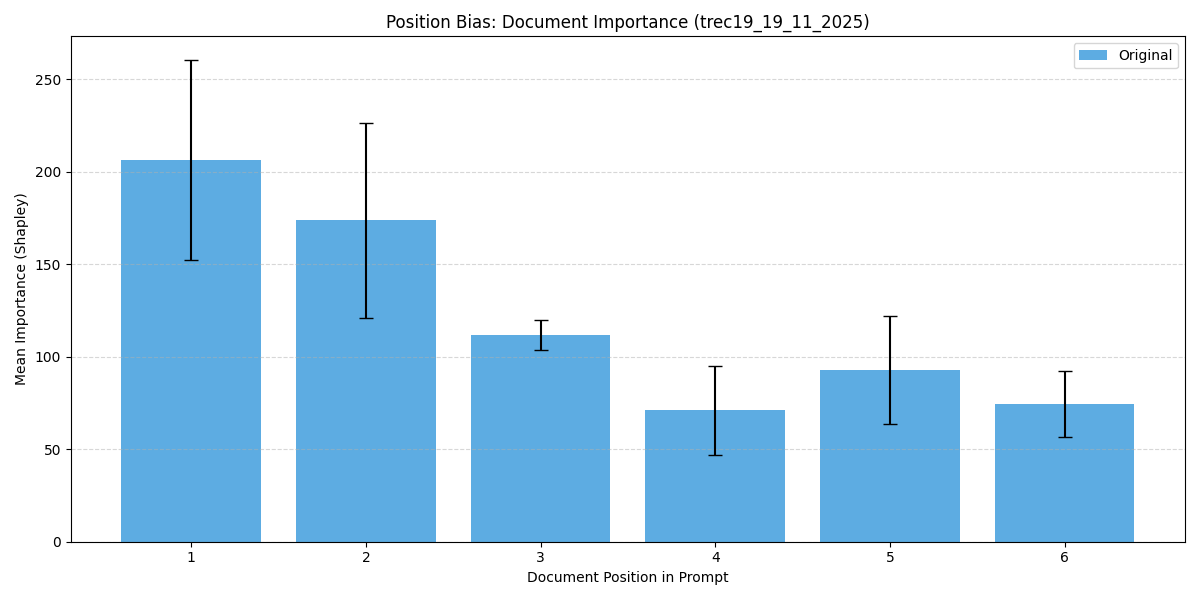
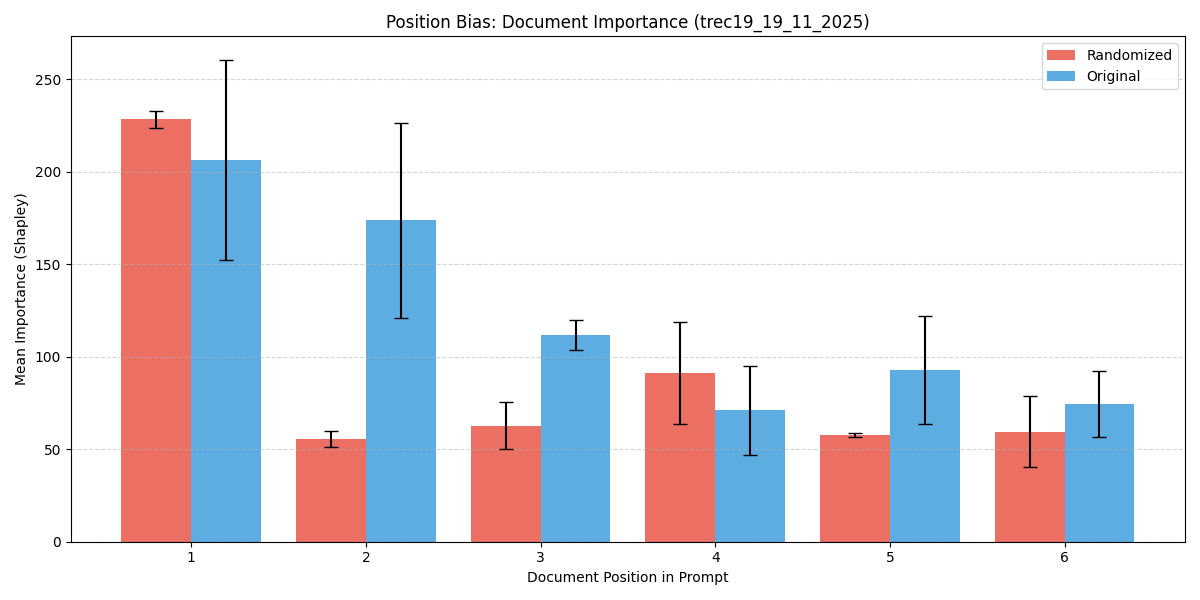
update

diff --git a/comparative_analysis_report/report.html b/comparative_analysis_report/report.html
@@ -24,7 +24,7 @@ h3 { color: #7f8c8d; }
 <body>
     <div class="container">
         <h1>RAG Pipeline Comparative Analysis</h1>
-        <p>Generated on 2025-11-26 12:36</p>
+        <p>Generated on 2025-11-26 13:10</p>
         <div class='experiment-block'><h2>Global Syntax & Logic Analysis</h2>
 <h3>Top POS Bigrams (Weighted)</h3>
 <table class='stats-table'><thead><tr><th>Type</th><th>Pattern</th><th>Mean Norm. Weight</th><th>Count</th></tr></thead><tbody>
@@ -41,10 +41,11 @@ h3 { color: #7f8c8d; }
 </tbody></table>
 <h3>Pattern Weight Summary</h3>
 <table class='stats-table'><thead><tr><th>Type</th><th>Pattern</th><th>Mean Norm. Weight</th><th>Count</th></tr></thead><tbody>
-<tr><td>generation</td><td>ADJ+NOUN</td><td>2.3216</td><td>8</td></tr>
-<tr><td>generation</td><td>ADP+NOUN</td><td>1.8592</td><td>5</td></tr>
-<tr><td>generation</td><td>DET+NOUN</td><td>1.4082</td><td>7</td></tr>
-<tr><td>retrieval</td><td>ADJ+NOUN</td><td>0.1929</td><td>6</td></tr>
+<tr><td>generation</td><td>ADJ+NOUN</td><td>1.6230</td><td>558</td></tr>
+<tr><td>generation</td><td>ADP+NOUN</td><td>1.4686</td><td>434</td></tr>
+<tr><td>generation</td><td>DET+NOUN</td><td>1.3732</td><td>458</td></tr>
+<tr><td>generation</td><td>VERB+NOUN</td><td>1.4836</td><td>188</td></tr>
+<tr><td>retrieval</td><td>ADJ+NOUN</td><td>0.6700</td><td>75</td></tr>
 </tbody></table>
 </div>
     
@@ -92,80 +93,48 @@ h3 { color: #7f8c8d; }
                     <a href='trec19_19_11_2025/original/Llama-3.1-8B-Instruct_qid_31_2/' target='_blank'>Folder</a>
                 </td>
             </tr>
-</tbody></table></div>
-
-        <div class="experiment-block">
-            <h2>Experiment: efra_chunks_17_11_2025</h2>
-            <div class="plot-container">
-
-                <div class="plot-card">
-                    <img src="efra_chunks_17_11_2025/compare_position.png" alt="position_bias">
-                    <div class="description"><b>Position Bias Analysis:</b> Comparison of document importance based on its position in the prompt. <br>If 'Original' and 'Randomized' both show a downward trend, the model has a <b>Primacy Bias</b> (favors the first thing it reads). <br>If 'Randomized' is flat or different, the model might be attending to content rather than position.</div>
-                </div>
-
-                <div class="plot-card">
-                    <img src="efra_chunks_17_11_2025/top_tokens.png" alt="top_tokens">
-                    <div class="description"><b>Top Influential Tokens:</b> The specific words (excluding stop words) that accumulated the most importance across all queries. These are the 'drivers' of your model's outputs.</div>
-                </div>
-
-                <div class="plot-card">
-                    <img src="efra_chunks_17_11_2025/pos_dist.png" alt="pos_distribution">
-                    <div class="description"><b>Part-of-Speech Impact:</b> Which grammatical roles drive the model's generation? High importance on Nouns/Verbs indicates content focus; high importance on Determiners/Prepositions might indicate noise.</div>
-                </div>
-</div>
-            <h3>Detailed Logs (efra_chunks_17_11_2025)</h3>
-            <table class='stats-table'>
-                <thead><tr><th>Condition</th><th>File</th><th>Query Text</th><th>Type</th><th>Links</th></tr></thead>
-                <tbody>
             <tr>
-                <td>original</td>
-                <td>Llama-3.1-8B-Instruct_qid_0</td>
-                <td style='max-width:300px; overflow:hidden; text-overflow:ellipsis; white-space:nowrap;' title='As a consumer interested in food safety, can you elaborate on the essential control measures that food establishments should implement to manage foodborne illness risk factors, and how regulatory authorities assess these measures during inspections?'>As a consumer interested in food safety, can you elaborate on the essential control measures that food establishments should implement to manage foodborne illness risk factors, and how regulatory authorities assess these measures during inspections?</td>
+                <td>randomized</td>
+                <td>Llama-3.1-8B-Instruct_qid_31_1</td>
+                <td style='max-width:300px; overflow:hidden; text-overflow:ellipsis; white-space:nowrap;' title='What is throat cancer?'>What is throat cancer?</td>
                 <td><span class='badge badge-gen'>generation</span></td>
                 <td>
-                    <a href='efra_chunks_17_11_2025/original/Llama-3.1-8B-Instruct_qid_0/index.html' target='_blank'>Detailed View</a> | 
-                    <a href='efra_chunks_17_11_2025/original/Llama-3.1-8B-Instruct_qid_0/' target='_blank'>Folder</a>
+                    <a href='trec19_19_11_2025/randomized/Llama-3.1-8B-Instruct_qid_31_1/index.html' target='_blank'>Detailed View</a> | 
+                    <a href='trec19_19_11_2025/randomized/Llama-3.1-8B-Instruct_qid_31_1/' target='_blank'>Folder</a>
                 </td>
             </tr>
             <tr>
-                <td>original</td>
-                <td>Llama-3.1-8B-Instruct_qid_1</td>
-                <td style='max-width:300px; overflow:hidden; text-overflow:ellipsis; white-space:nowrap;' title='As a consumer interested in food safety, could you elaborate on the guidelines and good manufacturing practices (GMP) that are in place for fresh meat, poultry, and game, as well as for frozen fish products, and how these practices ensure the safety and quality of these food items?'>As a consumer interested in food safety, could you elaborate on the guidelines and good manufacturing practices (GMP) that are in place for fresh meat, poultry, and game, as well as for frozen fish products, and how these practices ensure the safety and quality of these food items?</td>
+                <td>randomized</td>
+                <td>Llama-3.1-8B-Instruct_qid_31_2</td>
+                <td style='max-width:300px; overflow:hidden; text-overflow:ellipsis; white-space:nowrap;' title='Is throat cancer treatable?'>Is throat cancer treatable?</td>
                 <td><span class='badge badge-gen'>generation</span></td>
                 <td>
-                    <a href='efra_chunks_17_11_2025/original/Llama-3.1-8B-Instruct_qid_1/index.html' target='_blank'>Detailed View</a> | 
-                    <a href='efra_chunks_17_11_2025/original/Llama-3.1-8B-Instruct_qid_1/' target='_blank'>Folder</a>
+                    <a href='trec19_19_11_2025/randomized/Llama-3.1-8B-Instruct_qid_31_2/index.html' target='_blank'>Detailed View</a> | 
+                    <a href='trec19_19_11_2025/randomized/Llama-3.1-8B-Instruct_qid_31_2/' target='_blank'>Folder</a>
                 </td>
             </tr>
-</tbody></table></div>
-
-        <div class="experiment-block">
-            <h2>Experiment: trec19</h2>
-            <div class="plot-container">
+</tbody></table>
+<h3>Comparative Analysis: Original vs Randomized</h3>
+<p>Side-by-side comparison of generated responses and document importance.</p>
+<table class='stats-table'><thead><tr><th>Query ID</th><th>Query</th><th>Original</th><th>Randomized</th><th>Diff?</th><th>Orig Doc Imp</th><th>Rand Doc Imp</th></tr></thead><tbody>
+<tr>
+<td>Llama-3.1-8B-Instruct_qid_31_1</td>
+<td style='max-width:300px; overflow:hidden; text-overflow:ellipsis; white-space:nowrap;' title='What is throat cancer?'>What is throat cancer?</td>
+<td><a href='trec19_19_11_2025/original/Llama-3.1-8B-Instruct_qid_31_1/index.html'>Original Report</a></td>
+<td><a href='trec19_19_11_2025/randomized/Llama-3.1-8B-Instruct_qid_31_1/index.html'>Randomized Report</a></td>
+<td><a href='trec19_19_11_2025/original/Llama-3.1-8B-Instruct_qid_31_1/index.html#doc_imp' target='_blank'>Compare Docs</a></td>
+<td><a href='trec19_19_11_2025/original/Llama-3.1-8B-Instruct_qid_31_1/doc_imp.png' target='_blank'><img src='trec19_19_11_2025/original/Llama-3.1-8B-Instruct_qid_31_1/doc_imp.png' width='200'></a></td>
+<td><a href='trec19_19_11_2025/randomized/Llama-3.1-8B-Instruct_qid_31_1/doc_imp.png' target='_blank'><img src='trec19_19_11_2025/randomized/Llama-3.1-8B-Instruct_qid_31_1/doc_imp.png' width='200'></a></td>
+</tr>
+<tr>
+<td>Llama-3.1-8B-Instruct_qid_31_2</td>
+<td style='max-width:300px; overflow:hidden; text-overflow:ellipsis; white-space:nowrap;' title='Is throat cancer treatable?'>Is throat cancer treatable?</td>
+<td><a href='trec19_19_11_2025/original/Llama-3.1-8B-Instruct_qid_31_2/index.html'>Original Report</a></td>
+<td><a href='trec19_19_11_2025/randomized/Llama-3.1-8B-Instruct_qid_31_2/index.html'>Randomized Report</a></td>
+<td><a href='trec19_19_11_2025/original/Llama-3.1-8B-Instruct_qid_31_2/index.html#doc_imp' target='_blank'>Compare Docs</a></td>
+<td><a href='trec19_19_11_2025/original/Llama-3.1-8B-Instruct_qid_31_2/doc_imp.png' target='_blank'><img src='trec19_19_11_2025/original/Llama-3.1-8B-Instruct_qid_31_2/doc_imp.png' width='200'></a></td>
+<td><a href='trec19_19_11_2025/randomized/Llama-3.1-8B-Instruct_qid_31_2/doc_imp.png' target='_blank'><img src='trec19_19_11_2025/randomized/Llama-3.1-8B-Instruct_qid_31_2/doc_imp.png' width='200'></a></td>
+</tr>
+</tbody></table>
 </div>
-            <h3>Detailed Logs (trec19)</h3>
-            <table class='stats-table'>
-                <thead><tr><th>Condition</th><th>File</th><th>Query Text</th><th>Type</th><th>Links</th></tr></thead>
-                <tbody>
-            <tr>
-                <td>retrieval</td>
-                <td>query_31_1</td>
-                <td style='max-width:300px; overflow:hidden; text-overflow:ellipsis; white-space:nowrap;' title=' ▁que ry : ▁What ▁is ▁ thro at ▁cancer ? '> ▁que ry : ▁What ▁is ▁ thro at ▁cancer ? </td>
-                <td><span class='badge badge-ret'>retrieval</span></td>
-                <td>
-                    <a href='trec19/retrieval/query_31_1/index.html' target='_blank'>Detailed View</a> | 
-                    <a href='trec19/retrieval/query_31_1/' target='_blank'>Folder</a>
-                </td>
-            </tr>
-            <tr>
-                <td>retrieval</td>
-                <td>query_31_2</td>
-                <td style='max-width:300px; overflow:hidden; text-overflow:ellipsis; white-space:nowrap;' title=' ▁que ry : ▁Is ▁ thro at ▁cancer ▁treat able ? '> ▁que ry : ▁Is ▁ thro at ▁cancer ▁treat able ? </td>
-                <td><span class='badge badge-ret'>retrieval</span></td>
-                <td>
-                    <a href='trec19/retrieval/query_31_2/index.html' target='_blank'>Detailed View</a> | 
-                    <a href='trec19/retrieval/query_31_2/' target='_blank'>Folder</a>
-                </td>
-            </tr>
-</tbody></table></div>
 </div></body></html>

diff --git a/comparative_analysis_report/trec19_19_11_2025/randomized/Llama-3.1-8B-Instruct_qid_31_2/gen_stats.html b/comparative_analysis_report/trec19_19_11_2025/randomized/Llama-3.1-8B-Instruct_qid_31_2/gen_stats.html
@@ -1,7 +1,7 @@
 <!DOCTYPE html>
 <html>
 <head>
-    <title>Detail: Llama-3.1-8B-Instruct_qid_31_2</title>
+    <title>Generation Stats</title>
     <style>
 body { font-family: 'Segoe UI', Tahoma, Geneva, Verdana, sans-serif; margin: 0; padding: 0; color: #333; background-color: #f9f9f9; }
 .container { max-width: 1200px; margin: 0 auto; padding: 20px; background-color: #fff; box-shadow: 0 0 10px rgba(0,0,0,0.1); }
@@ -23,38 +23,24 @@ h3 { color: #7f8c8d; }
 </head>
 <body>
     <div class="container">
-        <a href="../../../report.html" style="display:inline-block; margin-bottom:20px; text-decoration:none; color:#3498db;" >&larr; Back to Global Report</a>
-        <h1>Analysis: Llama-3.1-8B-Instruct_qid_31_2</h1>
-        <div style="background:#f0f8ff; padding:15px; border-radius:5px; margin-bottom:20px;">
-            <strong>Query:</strong> Is throat cancer treatable?
-        </div>
-        <a href="gen_stats.html" class="badge badge-gen" style="font-size:1em; text-decoration:none; padding:10px;">View Full Generation Stats</a>
-        <div class="experiment-block">
-            <div class="plot-container">
-
-            <div class="plot-card">
-                <h3>Document Importance</h3>
-                <img src="doc_imp.png" alt="Document Importance">
-            </div>
-
-            <div class="plot-card">
-                <h3>POS Importance</h3>
-                <img src="pos_imp.png" alt="POS Importance">
-            </div>
-
-            <div class="plot-card">
-                <h3>Query Heatmap</h3>
-                <img src="qry_map.png" alt="Query Heatmap">
-            </div>
-
-            <div class="plot-card">
-                <h3>Context Heatmap</h3>
-                <img src="ctx_map.png" alt="Context Heatmap">
-            </div>
-
-            </div>
-        </div>
+        <h1>Generation Statistics</h1>
+        <p><b>Query:</b> Is throat cancer treatable?</p>
+        <p><b>Generated Text:</b> <|start_header_id|> assistant <|end_header_id|> ĊĊ Based on the provided documents , the answer to the query is that throat cancer is treat able , especially when detected early . ĊĊ According to Document  1 and Document  4 , if the cancer has not spread to parts of the body outside the head and neck , about half of patients can be cured .</p>
         
-    </div>
-</body>
-</html>
+        <div class="experiment-block">
+            <h3>Top 10 Most 'Expensive' Generated Tokens</h3>
+            <p>Tokens that required the most attribution (Context + Query).</p>
+            <table class="stats-table">
+                <thead><tr><th>Rank</th><th>Token</th><th>Total Importance</th></tr></thead>
+                <tbody>
+<tr><td>1</td><td>head</td><td>31.0209</td></tr>
+<tr><td>2</td><td>,</td><td>30.6072</td></tr>
+<tr><td>3</td><td>outside</td><td>28.9953</td></tr>
+<tr><td>4</td><td><|start_header_id|></td><td>27.3180</td></tr>
+<tr><td>5</td><td>parts</td><td>24.1450</td></tr>
+<tr><td>6</td><td>half</td><td>23.1736</td></tr>
+<tr><td>7</td><td>of</td><td>20.9104</td></tr>
+<tr><td>8</td><td>about</td><td>20.2607</td></tr>
+<tr><td>9</td><td>4</td><td>20.0843</td></tr>
+<tr><td>10</td><td>body</td><td>20.0354</td></tr>
+</tbody></table></div></div></body></html>

diff --git a/comparative_analysis_report/trec19_19_11_2025/randomized/Llama-3.1-8B-Instruct_qid_31_1/gen_stats.html b/comparative_analysis_report/trec19_19_11_2025/randomized/Llama-3.1-8B-Instruct_qid_31_1/gen_stats.html
@@ -1,7 +1,7 @@
 <!DOCTYPE html>
 <html>
 <head>
-    <title>Detail: Llama-3.1-8B-Instruct_qid_31_2</title>
+    <title>Generation Stats</title>
     <style>
 body { font-family: 'Segoe UI', Tahoma, Geneva, Verdana, sans-serif; margin: 0; padding: 0; color: #333; background-color: #f9f9f9; }
 .container { max-width: 1200px; margin: 0 auto; padding: 20px; background-color: #fff; box-shadow: 0 0 10px rgba(0,0,0,0.1); }
@@ -23,38 +23,24 @@ h3 { color: #7f8c8d; }
 </head>
 <body>
     <div class="container">
-        <a href="../../../report.html" style="display:inline-block; margin-bottom:20px; text-decoration:none; color:#3498db;" >&larr; Back to Global Report</a>
-        <h1>Analysis: Llama-3.1-8B-Instruct_qid_31_2</h1>
-        <div style="background:#f0f8ff; padding:15px; border-radius:5px; margin-bottom:20px;">
-            <strong>Query:</strong> Is throat cancer treatable?
-        </div>
-        <a href="gen_stats.html" class="badge badge-gen" style="font-size:1em; text-decoration:none; padding:10px;">View Full Generation Stats</a>
-        <div class="experiment-block">
-            <div class="plot-container">
-
-            <div class="plot-card">
-                <h3>Document Importance</h3>
-                <img src="doc_imp.png" alt="Document Importance">
-            </div>
-
-            <div class="plot-card">
-                <h3>POS Importance</h3>
-                <img src="pos_imp.png" alt="POS Importance">
-            </div>
-
-            <div class="plot-card">
-                <h3>Query Heatmap</h3>
-                <img src="qry_map.png" alt="Query Heatmap">
-            </div>
-
-            <div class="plot-card">
-                <h3>Context Heatmap</h3>
-                <img src="ctx_map.png" alt="Context Heatmap">
-            </div>
-
-            </div>
-        </div>
+        <h1>Generation Statistics</h1>
+        <p><b>Query:</b> What is throat cancer?</p>
+        <p><b>Generated Text:</b> <|start_header_id|> assistant <|end_header_id|> ĊĊ Based on the retrieved documents , throat cancer refers to cancer ous tumors that develop in the throat , specifically in the ph ary nx ( the upper , middle , or lower part of the throat ) or the l ary nx ( the voice box ). It is a type of head and neck cancer that can be</p>
         
-    </div>
-</body>
-</html>
+        <div class="experiment-block">
+            <h3>Top 10 Most 'Expensive' Generated Tokens</h3>
+            <p>Tokens that required the most attribution (Context + Query).</p>
+            <table class="stats-table">
+                <thead><tr><th>Rank</th><th>Token</th><th>Total Importance</th></tr></thead>
+                <tbody>
+<tr><td>1</td><td><|start_header_id|></td><td>39.9523</td></tr>
+<tr><td>2</td><td>head</td><td>35.4337</td></tr>
+<tr><td>3</td><td>assistant</td><td>34.2323</td></tr>
+<tr><td>4</td><td>and</td><td>18.9493</td></tr>
+<tr><td>5</td><td>ary</td><td>17.4356</td></tr>
+<tr><td>6</td><td>cancer</td><td>16.8009</td></tr>
+<tr><td>7</td><td>throat</td><td>14.9075</td></tr>
+<tr><td>8</td><td>tumors</td><td>14.8917</td></tr>
+<tr><td>9</td><td>ph</td><td>14.8142</td></tr>
+<tr><td>10</td><td>type</td><td>14.7662</td></tr>
+</tbody></table></div></div></body></html>

diff --git a/comparative_analysis_report/trec19_19_11_2025/original/Llama-3.1-8B-Instruct_qid_31_2/gen_stats.html b/comparative_analysis_report/trec19_19_11_2025/original/Llama-3.1-8B-Instruct_qid_31_2/gen_stats.html
@@ -33,8 +33,14 @@ h3 { color: #7f8c8d; }
             <table class="stats-table">
                 <thead><tr><th>Rank</th><th>Token</th><th>Total Importance</th></tr></thead>
                 <tbody>
-<tr><td>1</td><td>ĊĊ</td><td>88.0452</td></tr>
-<tr><td>2</td><td>assistant</td><td>47.5695</td></tr>
-<tr><td>3</td><td><|end_header_id|></td><td>34.5246</td></tr>
-<tr><td>4</td><td><|start_header_id|></td><td>33.6165</td></tr>
+<tr><td>1</td><td>head</td><td>35.1939</td></tr>
+<tr><td>2</td><td><|start_header_id|></td><td>30.1654</td></tr>
+<tr><td>3</td><td>and</td><td>20.2501</td></tr>
+<tr><td>4</td><td>neck</td><td>18.3733</td></tr>
+<tr><td>5</td><td>once</td><td>17.5920</td></tr>
+<tr><td>6</td><td>the</td><td>17.3245</td></tr>
+<tr><td>7</td><td>assistant</td><td>16.9792</td></tr>
+<tr><td>8</td><td>high</td><td>16.2603</td></tr>
+<tr><td>9</td><td>a</td><td>16.1506</td></tr>
+<tr><td>10</td><td>,</td><td>15.3920</td></tr>
 </tbody></table></div></div></body></html>

diff --git a/comparative_analysis_report/trec19_19_11_2025/original/Llama-3.1-8B-Instruct_qid_31_1/gen_stats.html b/comparative_analysis_report/trec19_19_11_2025/original/Llama-3.1-8B-Instruct_qid_31_1/gen_stats.html
@@ -33,8 +33,14 @@ h3 { color: #7f8c8d; }
             <table class="stats-table">
                 <thead><tr><th>Rank</th><th>Token</th><th>Total Importance</th></tr></thead>
                 <tbody>
-<tr><td>1</td><td><|end_header_id|></td><td>68.7360</td></tr>
-<tr><td>2</td><td><|start_header_id|></td><td>67.9783</td></tr>
-<tr><td>3</td><td>assistant</td><td>51.1655</td></tr>
-<tr><td>4</td><td>ĊĊ</td><td>42.0216</td></tr>
+<tr><td>1</td><td><|start_header_id|></td><td>44.2391</td></tr>
+<tr><td>2</td><td>tube</td><td>36.8563</td></tr>
+<tr><td>3</td><td>to</td><td>36.5227</td></tr>
+<tr><td>4</td><td>nose</td><td>34.3466</td></tr>
+<tr><td>5</td><td>any</td><td>33.5459</td></tr>
+<tr><td>6</td><td>head</td><td>33.3070</td></tr>
+<tr><td>7</td><td></td><td>33.0619</td></tr>
+<tr><td>8</td><td>-inch</td><td>32.6442</td></tr>
+<tr><td>9</td><td>5</td><td>32.4263</td></tr>
+<tr><td>10</td><td>type</td><td>32.3160</td></tr>
 </tbody></table></div></div></body></html>

diff --git a/analysis/master_analysis.py b/analysis/master_analysis.py
@@ -143,7 +143,8 @@ def generate_local_index(file_dir, file_name, file_type, query_text="", document
         plots = [
             ("Document Importance", "doc_imp.png", "doc_importance"),
             ("POS Importance", "pos_imp.png", "pos_distribution"),
-            ("Query Heatmap", "qry_map.png", "shapley_heatmap")
+            ("Query Heatmap", "qry_map.png", "shapley_heatmap"),
+            ("Context Heatmap", "ctx_map.png", "shapley_heatmap")
         ]
         extra_links = f'<a href="gen_stats.html" class="badge badge-gen" style="font-size:1em; text-decoration:none; padding:10px;">View Full Generation Stats</a>'
     else:
@@ -239,6 +240,11 @@ def process_file_worker(args):
             plot_mean_doc_importance(s_ctx, os.path.join(local_out_dir, "doc_imp.png"))
             plot_pos_importance(gen, s_qry, s_ctx, os.path.join(local_out_dir, "pos_imp.png"))
             plot_shapley_heatmap(s_qry, gen, qry, "Query Heatmap", os.path.join(local_out_dir, "qry_map.png"))
+            
+            # Context Heatmap
+            ctx_labels = [f"Doc {i+1}" for i in range(s_ctx.shape[0])]
+            plot_shapley_heatmap(s_ctx, gen, ctx_labels, "Context (Document) Heatmap", os.path.join(local_out_dir, "ctx_map.png"))
+            
             generate_generation_stats_html(local_out_dir, gen, qry, s_ctx, s_qry)
             
             # Compute Stats for Aggregation
@@ -562,7 +568,45 @@ def generate_full_report(out_dir, experiments, exp_plots_map, file_log, global_s
             html.append("                </td>")
             html.append("            </tr>")
             
-        html.append("</tbody></table></div>")
+        html.append("</tbody></table>")
+
+        # Comparative Analysis Section (Original vs Randomized)
+        # Only relevant for generation experiments with both conditions
+        conditions = set(f['condition'] for f in exp_logs)
+        if 'original' in conditions and 'randomized' in conditions:
+             html.append("<h3>Comparative Analysis: Original vs Randomized</h3>")
+             html.append("<p>Side-by-side comparison of generated responses and document importance.</p>")
+             html.append("<table class='stats-table'><thead><tr><th>Query ID</th><th>Query</th><th>Original</th><th>Randomized</th><th>Diff?</th><th>Orig Doc Imp</th><th>Rand Doc Imp</th></tr></thead><tbody>")
+             
+             # Match logs by name (assuming name contains query ID)
+             orig_logs = {l['name']: l for l in exp_logs if l['condition'] == 'original'}
+             rand_logs = {l['name']: l for l in exp_logs if l['condition'] == 'randomized'}
+             
+             all_names = sorted(set(list(orig_logs.keys()) + list(rand_logs.keys())))
+             
+             for name in all_names:
+                 orig = orig_logs.get(name)
+                 rand = rand_logs.get(name)
+                 
+                 if orig and rand:
+                     q_text = orig.get('query', 'N/A')
+                     orig_path = os.path.relpath(orig['path'], out_dir)
+                     rand_path = os.path.relpath(rand['path'], out_dir)
+                     
+                     # Simple link for now, maybe embed images later
+                     html.append(f"<tr>")
+                     html.append(f"<td>{name}</td>")
+                     html.append(f"<td style='max-width:300px; overflow:hidden; text-overflow:ellipsis; white-space:nowrap;' title='{q_text}'>{q_text}</td>")
+                     html.append(f"<td><a href='{orig_path}/index.html'>Original Report</a></td>")
+                     html.append(f"<td><a href='{rand_path}/index.html'>Randomized Report</a></td>")
+                     html.append(f"<td><a href='{orig_path}/index.html#doc_imp' target='_blank'>Compare Docs</a></td>")
+                     html.append(f"<td><a href='{orig_path}/doc_imp.png' target='_blank'><img src='{orig_path}/doc_imp.png' width='200'></a></td>")
+                     html.append(f"<td><a href='{rand_path}/doc_imp.png' target='_blank'><img src='{rand_path}/doc_imp.png' width='200'></a></td>")
+                     html.append(f"</tr>")
+                     
+             html.append("</tbody></table>")
+             
+        html.append("</div>")
     html.append("</div></body></html>")
     
     with open(os.path.join(out_dir, "report.html"), "w") as f:
